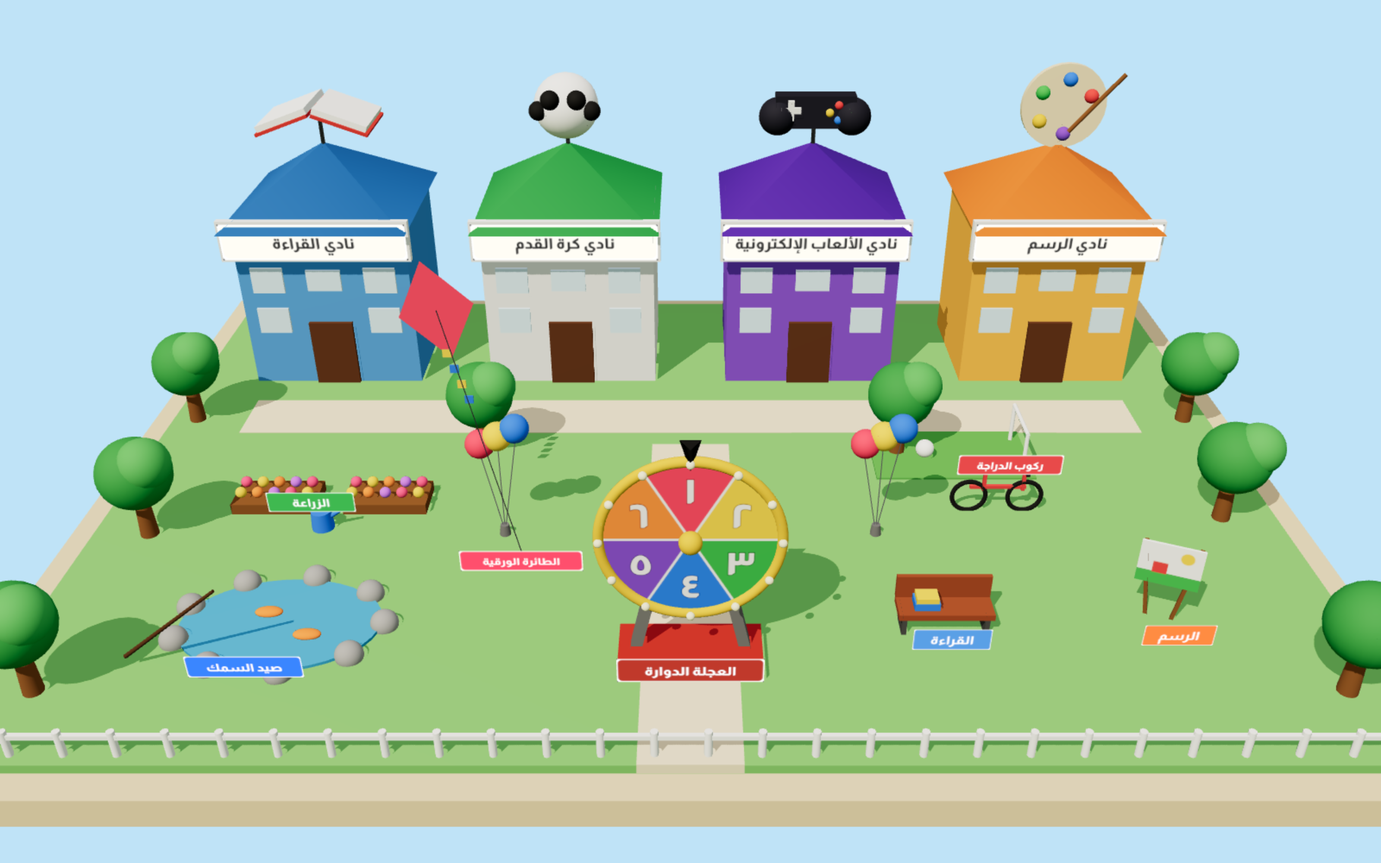
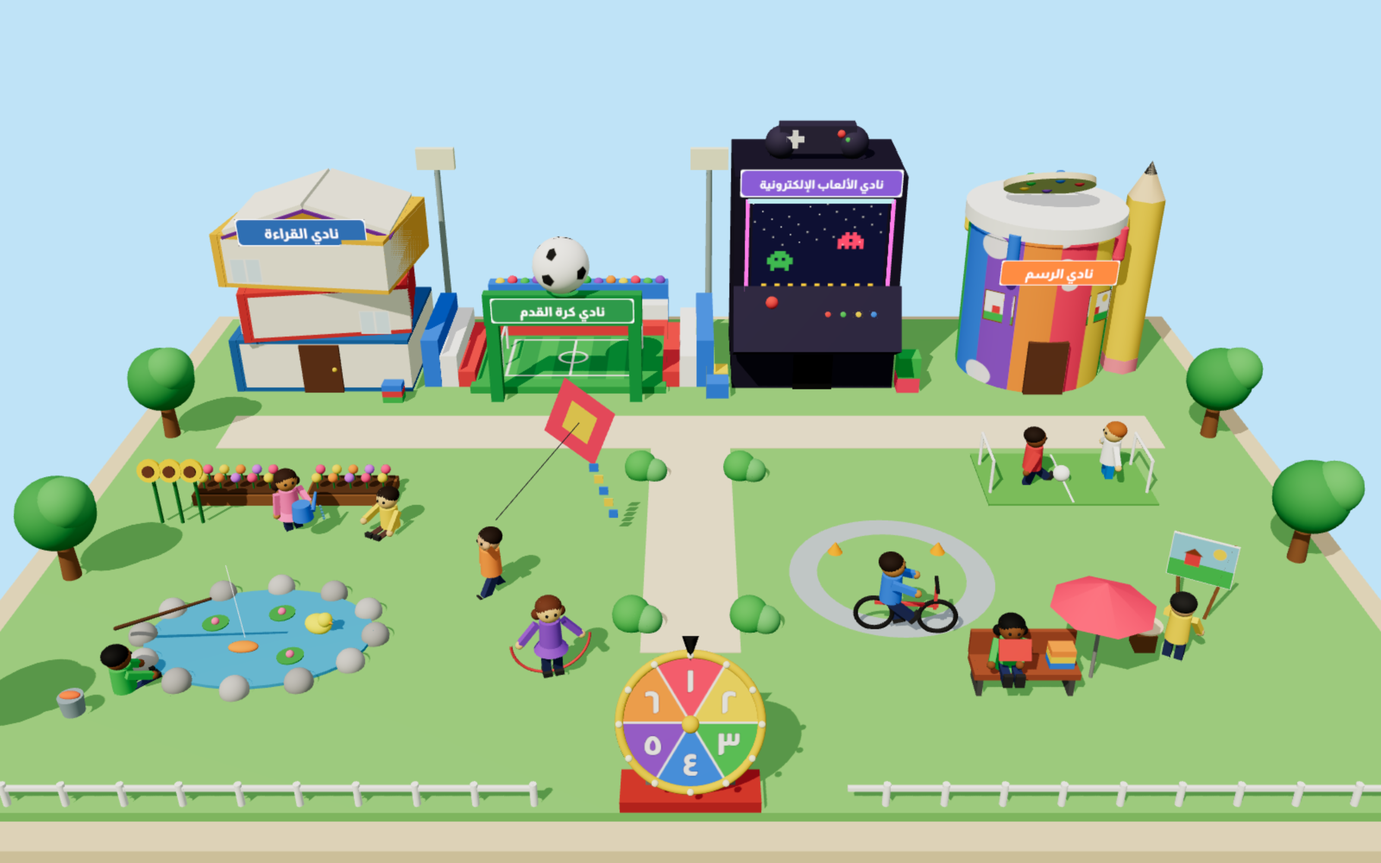
تحديث مجسم أمارس هواياتي: عجلة أمامية منخفضة، أشخاص، ثيمات مبانٍ متنوعة
Claude-Session: https://claude.ai/code/session_01FLRbf3BPUQiKd3AULRWu9m

diff --git a/projects/hobbies-garden-model/index.html b/projects/hobbies-garden-model/index.html
@@ -4,121 +4,188 @@ import * as THREE from './three.module.js';
 const W=1600,H=1000;
 await new FontFace('AR','url(font.ttf)').load().then(f=>document.fonts.add(f));
 const R=new THREE.WebGLRenderer({antialias:true,preserveDrawingBuffer:true});
-R.setSize(W,H);R.shadowMap.enabled=true;R.shadowMap.type=THREE.PCFSoftShadowMap;
-R.toneMapping=THREE.ACESFilmicToneMapping;R.toneMappingExposure=1.05;
+R.setSize(W,H);R.shadowMap.enabled=true;R.toneMapping=THREE.ACESFilmicToneMapping;R.toneMappingExposure=1.05;
 document.body.appendChild(R.domElement);
 const S=new THREE.Scene();S.background=new THREE.Color('#bfe3f7');
-const cam=new THREE.PerspectiveCamera(38,W/H,0.1,300);cam.position.set(0,26,40);cam.lookAt(0,1.5,-1);
+const VIEW=new URLSearchParams(location.search).get('view');
+const cam=new THREE.PerspectiveCamera(36,W/H,0.1,300);
+if(VIEW==='top'){cam.position.set(0,62,6);cam.lookAt(0,0,0.5)}else{cam.position.set(0,25,41);cam.lookAt(0,1.8,-1.5)}
 S.add(new THREE.HemisphereLight('#ffffff','#7a9a5a',1.4));
 const sun=new THREE.DirectionalLight('#fff4e0',2.4);sun.position.set(-14,30,22);sun.castShadow=true;
 sun.shadow.mapSize.set(4096,4096);Object.assign(sun.shadow.camera,{left:-30,right:30,top:30,bottom:-30});sun.shadow.bias=-0.0005;S.add(sun);
 
-const M=c=>new THREE.MeshStandardMaterial({color:c,roughness:.75});
-function box(w,h,d,c,x,y,z,p=S){const m=new THREE.Mesh(new THREE.BoxGeometry(w,h,d),M(c));m.position.set(x,y,z);m.castShadow=m.receiveShadow=true;p.add(m);return m}
-function cyl(rt,rb,h,c,x,y,z,p=S,seg=24){const m=new THREE.Mesh(new THREE.CylinderGeometry(rt,rb,h,seg),M(c));m.position.set(x,y,z);m.castShadow=m.receiveShadow=true;p.add(m);return m}
-function sph(r,c,x,y,z,p=S){const m=new THREE.Mesh(new THREE.SphereGeometry(r,24,16),M(c));m.position.set(x,y,z);m.castShadow=true;p.add(m);return m}
-function label(text,w,h,bg,fg,x,y,z,p=S,fs=0.62){const cv=document.createElement('canvas');cv.width=1024;cv.height=Math.round(1024*h/w);const g=cv.getContext('2d');
- g.fillStyle=bg;g.beginPath();g.roundRect(0,0,cv.width,cv.height,40);g.fill();g.lineWidth=18;g.strokeStyle='#ffffff';g.stroke();
- g.fillStyle=fg;g.direction='rtl';g.textAlign='center';g.textBaseline='middle';g.font=`800 ${Math.round(cv.height*fs)}px AR`;g.fillText(text,cv.width/2,cv.height*0.55);
- const t=new THREE.CanvasTexture(cv);t.colorSpace=THREE.SRGBColorSpace;t.anisotropy=8;
+const M=(c,o={})=>new THREE.MeshStandardMaterial({color:c,roughness:.75,...o});
+const add=(m,x,y,z,p)=>{m.position.set(x,y,z);m.castShadow=m.receiveShadow=true;p.add(m);return m};
+const box=(w,h,d,c,x,y,z,p=S)=>add(new THREE.Mesh(new THREE.BoxGeometry(w,h,d),M(c)),x,y,z,p);
+const cyl=(rt,rb,h,c,x,y,z,p=S,seg=24)=>add(new THREE.Mesh(new THREE.CylinderGeometry(rt,rb,h,seg),M(c)),x,y,z,p);
+const sph=(r,c,x,y,z,p=S)=>add(new THREE.Mesh(new THREE.SphereGeometry(r,24,16),M(c)),x,y,z,p);
+const cone=(r,h,c,x,y,z,p=S,seg=24)=>add(new THREE.Mesh(new THREE.ConeGeometry(r,h,seg),M(c)),x,y,z,p);
+const grp=(x,y,z,p=S,ry=0)=>{const g=new THREE.Group();g.position.set(x,y,z);g.rotation.y=ry;p.add(g);return g};
+const line=(a,b,c='#333')=>S.add(new THREE.Line(new THREE.BufferGeometry().setFromPoints([new THREE.Vector3(...a),new THREE.Vector3(...b)]),new THREE.LineBasicMaterial({color:c})));
+function tex(w,h,draw){const cv=document.createElement('canvas');cv.width=w;cv.height=h;draw(cv.getContext('2d'),w,h);const t=new THREE.CanvasTexture(cv);t.colorSpace=THREE.SRGBColorSpace;t.anisotropy=8;return t}
+function sign(text,w,h,bg,fg,x,y,z,p,fs=.5){const t=tex(1024,Math.round(1024*h/w),(g,cw,ch)=>{g.fillStyle=bg;g.beginPath();g.roundRect(0,0,cw,ch,40);g.fill();g.lineWidth=16;g.strokeStyle='#fff';g.stroke();g.fillStyle=fg;g.direction='rtl';g.textAlign='center';g.textBaseline='middle';g.font=`800 ${Math.round(ch*fs)}px AR`;g.fillText(text,cw/2,ch*.55)});
  const m=new THREE.Mesh(new THREE.PlaneGeometry(w,h),new THREE.MeshBasicMaterial({map:t,toneMapped:false}));m.position.set(x,y,z);p.add(m);return m}
+const picture=(w,h,t,x,y,z,p,ry=0)=>{const m=new THREE.Mesh(new THREE.PlaneGeometry(w,h),new THREE.MeshStandardMaterial({map:t,roughness:.6}));m.position.set(x,y,z);m.rotation.y=ry;p.add(m);return m};
 
-// قاعدة المجسم (لوح)
-box(44,1,32,'#e8d3a8',0,-0.5,0);
-const grass=box(42,0.3,30,'#7cc56a',0,0.15,0);
-// ممرات
-box(3,0.32,17,'#f2e2bf',0,0.17,6.5); box(36,0.32,2.6,'#f2e2bf',0,0.17,-4.2);
-// سور صغير
-for(let x=-20.5;x<=20.5;x+=1.5){cyl(.12,.12,.9,'#ffffff',x,.75,14.6,S,8)} box(41.5,.15,.15,'#ffffff',0,1.0,14.6);
+// ===== شخص (بدون كلمات) =====
+// o: skin, shirt, pants, hair, armL/armR [rx,rz], legL/legR rx, sit, girl
+function person(x,z,ry,o={}){const g=grp(x,0,z,S,ry);const sk=o.skin||'#e0ac7e',sh=o.shirt||'#3a86ff',pa=o.pants||'#2b3a67',ha=o.hair||'#2b1b10';
+ const y0=o.sit?-.75:0;const b=grp(0,y0+(o.lift||0),0,g);
+ for(const [s,rx] of [[-1,o.legL||0],[1,o.legR||0]]){const l=grp(s*.17,.95,0,b);l.rotation.x=o.sit?-Math.PI/2:rx;box(.24,.9,.26,pa,0,-.45,0,l);box(.26,.14,.38,'#333',0,-.9,.06,l)}
+ cyl(.3,.34,.9,sh,0,1.38,0,b,16);if(o.girl)cone(.5,.7,sh,0,1.15,0,b,16);
+ sph(.36,sk,0,2.15,0,b);const hr=sph(.38,ha,0,2.25,-.06,b);hr.scale.set(1,.75,1);if(o.girl){sph(.16,ha,-.33,2.0,-.12,b);sph(.16,ha,.33,2.0,-.12,b)}
+ sph(.05,'#222',-.12,2.18,.32,b);sph(.05,'#222',.12,2.18,.32,b);
+ for(const [s,a] of [[-1,o.armL||[0,0]],[1,o.armR||[0,0]]]){const ar=grp(s*.4,1.72,0,b);ar.rotation.set(a[0],0,s*(a[1]||.12));box(.18,.75,.2,sh,0,-.35,0,ar);sph(.12,sk,0,-.78,0,ar)}
+ return g}
 
-// ===== المباني الأربعة =====
-function building(x,col,roof,name,deco){const g=new THREE.Group();g.position.set(x,0,-10);S.add(g);
- box(7,7,5.5,col,0,3.8,0,g);
- const r=new THREE.Mesh(new THREE.ConeGeometry(5.3,2.6,4),M(roof));r.rotation.y=Math.PI/4;r.position.y=8.6;r.castShadow=true;g.add(r);
- box(1.8,2.8,.2,'#6b4226',0,1.7,2.8,g);
- for(const wx of[-2.3,2.3])for(const wy of[3.2,5.0])box(1.3,1.1,.15,'#d9f1ff',wx,wy,2.8,g);
- box(1.4,.9,.15,'#d9f1ff',0,5.0,2.8,g);
- box(7.6,1.7,.3,'#ffffff',0,6.9,3.2,g);label(name,7.4,1.5,'#fffdf5','#2b2b2b',0,6.9,3.4,g,.42);
- deco(g);}
-building(-15,'#5aa0e6','#2f6fb3','نادي القراءة',g=>{ // كتاب مفتوح على السطح
- const b=new THREE.Group();b.position.set(0,11.2,0);g.add(b);
- const p1=box(2.2,.25,2.8,'#ffffff',-1.15,0,0,b);p1.rotation.z=.35;const p2=box(2.2,.25,2.8,'#ffffff',1.15,0,0,b);p2.rotation.z=-.35;
- const c1=box(2.3,.12,2.95,'#d9443a',-1.15,-.2,0,b);c1.rotation.z=.35;const c2=box(2.3,.12,2.95,'#d9443a',1.15,-.2,0,b);c2.rotation.z=-.35;
- cyl(.08,.08,1.6,'#555',0,10,0,g,8);});
-building(-5,'#f4f4f4','#2e9a4a','نادي كرة القدم',g=>{ // كرة كبيرة + مرمى صغير
- const ball=sph(1.3,'#ffffff',0,11.4,0,g);
- for(let i=0;i<6;i++){const s=sph(.38,'#222',0,0,0,g);const a=i*Math.PI/3;s.position.set(Math.cos(a)*1.05,11.4+Math.sin(a)*1.05*.6,Math.sin(a)*.5+.75)}
- cyl(.08,.08,1.6,'#555',0,10,0,g,8);
- });
-building(5,'#8a5cd6','#5a33a6','نادي الألعاب الإلكترونية',g=>{ // يد تحكم
- const c=new THREE.Group();c.position.set(0,11.3,.3);g.add(c);
- box(3.2,1.3,.7,'#2b2b38',0,0,0,c);sph(.75,'#2b2b38',-1.5,-.25,0,c);sph(.75,'#2b2b38',1.5,-.25,0,c);
- box(.8,.25,.2,'#f5f5f5',-1,.1,.4,c);box(.25,.8,.2,'#f5f5f5',-1,.1,.4,c);
- sph(.17,'#e84a4a',.9,.3,.38,c);sph(.17,'#3fb950',1.25,0,.38,c);sph(.17,'#f2c230',.55,0,.38,c);sph(.17,'#3a86ff',.9,-.3,.38,c);
- cyl(.08,.08,1.6,'#555',0,10,0,g,8);});
-building(15,'#ffb347','#e0742a','نادي الرسم',g=>{ // لوحة ألوان وفرشاة
- const pal=new THREE.Mesh(new THREE.CylinderGeometry(1.7,1.7,.25,32),M('#f3dfb8'));pal.rotation.x=Math.PI/2;pal.position.set(0,11.4,0);pal.castShadow=true;g.add(pal);
- ['#e84a4a','#3a86ff','#3fb950','#f2c230','#8a5cd6'].forEach((c,i)=>{const a=i*1.1+.4;sph(.28,c,Math.cos(a)*1.1,11.4+Math.sin(a)*1.1,.2,g)});
- const br=cyl(.09,.09,3,'#8b5a2b',1.2,11.6,.4,g,8);br.rotation.z=-.7;
- cyl(.08,.08,1.6,'#555',0,10,0,g,8);});
+// ===== القاعدة =====
+box(44,1,33,'#e8d3a8',0,-0.5,.5);box(42,0.3,31,'#7cc56a',0,0.15,.5);
+box(3,0.32,13,'#f2e2bf',0,0.17,3); box(36,0.32,2.6,'#f2e2bf',0,0.17,-4.2);
+for(let x=-20.5;x<=20.5;x+=1.5){if(Math.abs(x)<4)continue;cyl(.1,.1,.7,'#ffffff',x,.65,15.7,S,8)}
+box(16.6,.12,.12,'#fff',-12.3,.85,15.7);box(16.6,.12,.12,'#fff',12.3,.85,15.7);
 
-// ===== الحديقة والهوايات =====
+// ===== المباني بثيمات مختلفة =====
+const BZ=-10.5;
+// 1) نادي القراءة: كومة كتب عملاقة + كتاب مفتوح سقفاً
+{const g=grp(-15,0,BZ);const bks=[['#2f6fb3',7.2,2.3,5.6,-.0],['#d9443a',6.6,2.1,5.2,.15],['#f2b134',7,2.2,5.4,-.12]];let y=.3;
+ bks.forEach(([c,w,h,d,r])=>{const b=grp(0,y+h/2,0,g,r);box(w,h,d,c,0,0,0,b);box(w-.4,h-.35,d+.02,'#fbf6e6',.2,0,0,b);box(.3,h,d+.05,c,-w/2+.15,0,0,b);y+=h});
+ const top=grp(0,y+.6,0,g);[[-1,.32],[1,-.32]].forEach(([s,r])=>{const p=box(3.4,.2,4.6,'#fbf6e6',s*1.65,0,0,top);p.rotation.z=r;const c=box(3.5,.12,4.8,'#7a3fa0',s*1.65,-.17,0,top);c.rotation.z=r});
+ box(1.6,2.1,.2,'#6b4226',0,1.35,2.82,g);sph(.1,'#f2c230',.55,1.35,2.95,g);
+ const wt=tex(256,256,(c)=>{c.fillStyle='#d9f1ff';c.fillRect(0,0,256,256);c.strokeStyle='#fff';c.lineWidth=18;c.strokeRect(0,0,256,256);c.beginPath();c.moveTo(128,0);c.lineTo(128,256);c.stroke()});
+ [[-2.4,3.4],[2.4,3.4],[-2.4,5.6],[2.4,5.6]].forEach(([x,yy])=>picture(1.2,1,wt,x,yy,2.85,g));
+ sign('نادي القراءة',5,1.1,'#2f6fb3','#fff',0,7.2,2.9,g,.5);
+ // كتب صغيرة بجانب الباب
+ ['#3fb950','#e84a4a','#3a86ff'].forEach((c,i)=>box(.8,.25,.6,c,3,.45+i*.26,3.6,g));}
+
+// 2) نادي كرة القدم: ملعب مصغّر بمدرجات وأعمدة إنارة
+{const g=grp(-5,0,BZ);box(8,.3,6,'#3aa64c',0,.45,0,g);
+ const ft=tex(512,384,(c)=>{c.fillStyle='#3aa64c';c.fillRect(0,0,512,384);for(let i=0;i<8;i++){c.fillStyle=i%2?'#34994a':'#3fb052';c.fillRect(i*64,0,64,384)}c.strokeStyle='#fff';c.lineWidth=8;c.strokeRect(30,30,452,324);c.beginPath();c.moveTo(256,30);c.lineTo(256,354);c.stroke();c.beginPath();c.arc(256,192,50,0,7);c.stroke()});
+ const f=new THREE.Mesh(new THREE.PlaneGeometry(6,4.2),new THREE.MeshStandardMaterial({map:ft}));f.rotation.x=-Math.PI/2;f.position.set(0,.61,.2);f.receiveShadow=true;g.add(f);
+ // مدرجات متدرجة خلفية وجانبية
+ for(let i=0;i<3;i++){box(8,.7+i*.7,.7,['#e84a4a','#ffffff','#3a86ff'][i],0,.35+(.7+i*.7)/2,-2.4-i*.7,g);
+  box(.7,.7+i*.7,5,['#e84a4a','#ffffff','#3a86ff'][i],-4.2-i*.7,.35+(.7+i*.7)/2,0,g);box(.7,.7+i*.7,5,['#e84a4a','#ffffff','#3a86ff'][i],4.2+i*.7,.35+(.7+i*.7)/2,0,g)}
+ // جمهور صغير
+ const fans=['#ffd23f','#ff4f6d','#3fb950','#8a5cd6','#ff8c42'];for(let i=0;i<14;i++){sph(.22,fans[i%5],-3.5+i*.55,2.4+.1*(i%2),-3.8,g)}
+ // مرميان
+ for(const s of[-1,1]){const gg=grp(s*2.9,.6,.2,g);cyl(.06,.06,1.2,'#fff',0,.6,-.9,gg,8);cyl(.06,.06,1.2,'#fff',0,.6,.9,gg,8);const t=cyl(.06,.06,1.9,'#fff',0,1.2,0,gg,8);t.rotation.x=Math.PI/2}
+ // أعمدة إنارة
+ for(const [x,z] of[[-5.8,-3.5],[5.8,-3.5]]){cyl(.12,.15,8,'#9aa',x,4,z,g,8);box(1.6,.9,.3,'#f6f6d0',x,8.2,z+.1,g)}
+ // بوابة أمامية وكرة كبيرة
+ box(.5,3.5,.5,'#2e9a4a',-2.8,2,3.5,g);box(.5,3.5,.5,'#2e9a4a',2.8,2,3.5,g);box(6.2,1.3,.5,'#2e9a4a',0,4.3,3.5,g);
+ sign('نادي كرة القدم',5.6,1.05,'#2e9a4a','#fff',0,4.3,3.77,g,.5);
+ const bt=tex(512,256,(c)=>{c.fillStyle='#fff';c.fillRect(0,0,512,256);c.fillStyle='#222';for(let i=0;i<10;i++){const x=(i*101)%512,y=(i*67)%256;c.beginPath();for(let k=0;k<5;k++){const a=k*1.2566;c.lineTo(x+22*Math.cos(a),y+22*Math.sin(a))}c.fill()}});
+ const ball=new THREE.Mesh(new THREE.SphereGeometry(1.1,32,20),new THREE.MeshStandardMaterial({map:bt}));ball.position.set(0,6.1,3.5);ball.castShadow=true;g.add(ball);}
+
+// 3) نادي الألعاب الإلكترونية: جهاز «أركيد» عملاق بشاشة نيون
+{const g=grp(5,0,BZ);box(6.6,9,5,'#24203a',0,4.8,0,g);
+ const sl=box(6.6,2.6,1.6,'#2f2a4a',0,3.5,2.9,g);sl.rotation.x=-.5; // لوحة التحكم المائلة
+ const sc=tex(512,400,(c)=>{c.fillStyle='#0e1033';c.fillRect(0,0,512,400);const px=(x,y,col,map)=>{c.fillStyle=col;map.forEach((r,j)=>[...r].forEach((v,i)=>{if(v==='1')c.fillRect(x+i*14,y+j*14,14,14)}))};
+  px(60,200,'#3fb950',['0011100','0111110','1101011','1111111','0111110','0100010']);
+  px(330,120,'#ff4f6d',['0010100','0111110','1110111','1111111','1010101']);
+  c.fillStyle='#ffd23f';for(let i=0;i<9;i++)c.fillRect(40+i*52,340,18,18);c.fillStyle='#3a86ff';c.fillRect(0,372,512,28);
+  c.fillStyle='#ffffff';for(let i=0;i<30;i++)c.fillRect((i*137)%512,(i*53)%180,4,4)});
+ const scr=new THREE.Mesh(new THREE.PlaneGeometry(5.2,3.9),new THREE.MeshBasicMaterial({map:sc,toneMapped:false}));scr.position.set(0,6.3,2.52);g.add(scr);
+ const neon=(w,h,col,x,y,z)=>{const m=new THREE.Mesh(new THREE.BoxGeometry(w,h,.15),new THREE.MeshStandardMaterial({color:col,emissive:col,emissiveIntensity:1.2}));m.position.set(x,y,z);g.add(m)};
+ neon(5.6,.15,'#00e5ff',0,8.35,2.55);neon(5.6,.15,'#00e5ff',0,4.25,2.55);neon(.15,4.2,'#ff2bd6',-2.8,6.3,2.55);neon(.15,4.2,'#ff2bd6',2.8,6.3,2.55);
+ // أزرار وعصا
+ [['#e84a4a',.8],['#3fb950',1.4],['#f2c230',2],['#3a86ff',2.6]].forEach(([c,x])=>sph(.22,c,x-.4,3.95,3.35,g));cyl(.07,.07,.6,'#222',-1.8,4.1,3.3,g,8);sph(.25,'#e84a4a',-1.8,4.45,3.3,g);
+ box(1.6,2.2,.2,'#111',0,1.15,2.52,g);
+ // مكعبات بكسل حول المبنى ويد تحكم فوقه
+ [['#ffd23f',-3.9,.5,2],['#ff4f6d',3.9,.5,2.5],['#3fb950',3.9,1.4,2.5],['#3a86ff',-3.9,.5,3]].forEach(([c,x,y,z])=>box(.9,.9,.9,c,x,y,z,g));
+ const cn=grp(0,10.1,0,g);box(3,1.1,.8,'#3a3550',0,0,0,cn);sph(.65,'#3a3550',-1.4,-.2,0,cn);sph(.65,'#3a3550',1.4,-.2,0,cn);sph(.16,'#e84a4a',.9,.25,.42,cn);sph(.16,'#3fb950',1.2,0,.42,cn);box(.7,.22,.2,'#eee',-.9,.05,.42,cn);box(.22,.7,.2,'#eee',-.9,.05,.42,cn);
+ sign('نادي الألعاب الإلكترونية',6.2,1.1,'#8a5cd6','#fff',0,9.05,2.56,g,.42);}
+
+// 4) نادي الرسم: برج أسطواني ملوّن بقلم رصاص عملاق وعلبة ألوان
+{const g=grp(15,0,BZ);
+ const st=tex(1024,512,(c)=>{const cs=['#ff4f6d','#ffd23f','#3fb950','#3a86ff','#8a5cd6','#ff8c42'];for(let i=0;i<12;i++){c.fillStyle=cs[i%6];c.fillRect(i*86,0,86,512)}c.fillStyle='rgba(255,255,255,.9)';for(let i=0;i<14;i++){c.beginPath();c.arc((i*173)%1024,(i*97)%512,18+i%3*10,0,7);c.fill()}});
+ const tw=new THREE.Mesh(new THREE.CylinderGeometry(3,3,6.5,40),new THREE.MeshStandardMaterial({map:st}));tw.position.set(-.6,3.55,0);tw.castShadow=tw.receiveShadow=true;g.add(tw);
+ // سقف: علبة ألوان سائلة تقطر
+ cyl(3.2,3.2,.6,'#ffffff',-.6,7.1,0,g,40);['#ff4f6d','#3a86ff','#ffd23f','#3fb950'].forEach((c,i)=>{const a=i*1.57+.6;const d=cyl(.25,.25,1.2+i%2*.6,c,-.6+Math.cos(a)*3.15,6.4-i%2*.3,Math.sin(a)*3.15,g,12);sph(.25,c,d.position.x,d.position.y-.6-i%2*.3,d.position.z,g)});
+ const pal=cyl(1.8,1.8,.25,'#f3dfb8',-.6,8.2,0,g,32);pal.rotation.x=-.5;['#e84a4a','#3a86ff','#3fb950','#f2c230','#8a5cd6'].forEach((c,i)=>{const a=i*1.1+.4;sph(.26,c,-.6+Math.cos(a)*1.1,8.35+Math.sin(a)*.5,Math.sin(a)*.9+.2,g)});
+ // قلم رصاص عملاق
+ cyl(.75,.75,7.5,'#ffcf3f',3.2,4.05,.5,g,6);cone(.75,1.5,'#f3d2a2',3.2,8.55,.5,g,6);cone(.25,.5,'#333',3.2,9.05,.5,g,6);cyl(.76,.76,.6,'#ff8fa3',3.2,.6,.5,g,6);
+ box(1.6,2.3,.3,'#6b4226',-.6,1.45,2.95,g);
+ const ft=tex(256,256,(c)=>{c.fillStyle='#fff';c.fillRect(0,0,256,256);c.fillStyle='#ffd23f';c.beginPath();c.arc(190,60,34,0,7);c.fill();c.fillStyle='#3fb950';c.fillRect(0,180,256,76);c.fillStyle='#e84a4a';c.fillRect(70,120,70,62);c.strokeStyle='#8b5a2b';c.lineWidth=18;c.strokeRect(0,0,256,256)});
+ picture(1.3,1.3,ft,-2.6,3.8,2.25,g,-.6);picture(1.3,1.3,ft,1.4,3.8,2.25,g,.6);
+ sign('نادي الرسم',4.6,1.05,'#ff8c42','#fff',-.6,5.6,3.05,g,.5);}
+
+// ===== الحديقة =====
 function tree(x,z,s=1){cyl(.25*s,.35*s,2*s,'#8b5a2b',x,1*s+.3,z);sph(1.4*s,'#3f9d48',x,2.8*s+.3,z);sph(1*s,'#56b65c',x+.6*s,3.4*s+.3,z+.3*s)}
-[[-20,-4],[20,-4],[-19,4],[19,3],[-8,-1.5],[8,-1.5],[-19.5,12],[19.5,12]].forEach(([x,z])=>tree(x,z,.9));
-function flowers(x,z){box(3,.4,1.6,'#8b5a2b',x,.5,z);const cs=['#ff5c8a','#ffd23f','#ff8c42','#c77dff'];for(let i=0;i<10;i++)sph(.2,cs[i%4],x-1.2+(i%5)*.6,.95,z-.35+Math.floor(i/5)*.7)}
-// 1) الزراعة
-flowers(-15,2); flowers(-11,2);
-const can=cyl(.35,.4,.7,'#3a86ff',-13,.65,3.6);const sp=cyl(.06,.1,.9,'#3a86ff',-12.5,.9,3.6,S,8);sp.rotation.z=-1;
-label('الزراعة',3,.8,'#3fb950','#fff',-13,1.9,4.4,S,.55);
-// 2) صيد السمك: بركة
-const pond=new THREE.Mesh(new THREE.CylinderGeometry(3.2,3.2,.1,40),new THREE.MeshStandardMaterial({color:'#4fb3e8',roughness:.15,metalness:.1}));pond.position.set(-13,.36,9);pond.scale.z=.7;pond.receiveShadow=true;S.add(pond);
-for(let i=0;i<9;i++){const a=i/9*Math.PI*2;sph(.45,'#a7a7a7',-13+Math.cos(a)*3.3,.4,9+Math.sin(a)*2.35)}
-[[-13.5,8.5],[-12,9.6]].forEach(([x,z])=>{const f=sph(.3,'#ff8c42',x,.45,z);f.scale.set(1.5,.5,.8)});
-const rod=cyl(.05,.07,4,'#5b3a1e',-15.5,2,11,S,8);rod.rotation.z=-.9;
-label('صيد السمك',3.4,.8,'#3a86ff','#fff',-13,1.4,12.2,S,.5);
-// 3) الطائرة الورقية
-const kite=new THREE.Mesh(new THREE.CircleGeometry(1.3,4),new THREE.MeshStandardMaterial({color:'#ff4f6d',side:2}));kite.position.set(-8.5,8,2);kite.scale.y=1.4;kite.rotation.z=.2;S.add(kite);
-const kl=new THREE.Line(new THREE.BufferGeometry().setFromPoints([new THREE.Vector3(-8.5,8,2),new THREE.Vector3(-5.5,1,6.5)]),new THREE.LineBasicMaterial({color:'#333'}));S.add(kl);
-for(let i=0;i<4;i++){const b=box(.3,.3,.05,['#ffd23f','#3a86ff'][i%2],-8.3+.2*i,6.4-.6*i,2)}
-label('الطائرة الورقية',4,.8,'#ff4f6d','#fff',-5.5,1.5,7.2,S,.48);
-// 4) ركوب الدراجة
-const bike=new THREE.Group();bike.position.set(11,0,2.5);S.add(bike);
-for(const bx of[-1,1]){const w=new THREE.Mesh(new THREE.TorusGeometry(.6,.08,10,30),M('#222'));w.position.set(bx,.9,0);w.castShadow=true;bike.add(w)}
-const fr=box(2,.12,.12,'#e84a4a',0,1.3,0,bike);box(.12,.9,.12,'#e84a4a',-.5,1.6,0,bike);box(.12,.9,.12,'#e84a4a',.9,1.6,0,bike);box(.6,.15,.3,'#222',-.5,2.05,0,bike);box(.12,.12,.9,'#222',.9,2.05,0,bike);
-label('ركوب الدراجة',3.6,.8,'#e84a4a','#fff',11,2.9,3.6,S,.5);
-// 5) الرسم في الحديقة: حامل لوحة
-const ea=new THREE.Group();ea.position.set(15,0,8.5);ea.rotation.y=-.4;S.add(ea);
-const l1=box(.12,3,.12,'#8b5a2b',-.6,1.6,0,ea);l1.rotation.z=.15;const l2=box(.12,3,.12,'#8b5a2b',.6,1.6,0,ea);l2.rotation.z=-.15;
-const cvs=document.createElement('canvas');cvs.width=256;cvs.height=200;const cg=cvs.getContext('2d');cg.fillStyle='#fff';cg.fillRect(0,0,256,200);cg.fillStyle='#ffd23f';cg.beginPath();cg.arc(190,50,28,0,7);cg.fill();cg.fillStyle='#3fb950';cg.fillRect(0,140,256,60);cg.fillStyle='#e84a4a';cg.fillRect(60,90,60,55);
-const tx=new THREE.CanvasTexture(cvs);tx.colorSpace=THREE.SRGBColorSpace;const pic=new THREE.Mesh(new THREE.BoxGeometry(1.9,1.5,.1),[M('#fff'),M('#fff'),M('#fff'),M('#fff'),new THREE.MeshStandardMaterial({map:tx}),M('#fff')]);pic.position.set(0,2.4,.15);pic.castShadow=true;ea.add(pic);
-label('الرسم',2.2,.8,'#ff8c42','#fff',15,.9,10.2,S,.55);
-// 6) القراءة في الحديقة: مقعد وكتب
-box(3,.2,1,'#a0522d',8,1,9);box(3,.8,.15,'#a0522d',8,1.5,8.5);for(const bx of[-1.3,1.3])box(.15,.9,.9,'#555',8+bx,.6,9);
-box(.8,.25,.6,'#3a86ff',7.4,1.25,9);box(.7,.2,.55,'#ffd23f',7.4,1.45,9);
-label('القراءة',2.4,.8,'#5aa0e6','#fff',8,.9,10.4,S,.55);
-// 7) كرة القدم: ملعب صغير ومرمى
-box(6,.33,3.4,'#5fb04f',10,.2,-1.2);const gl=new THREE.Group();gl.position.set(12.6,0,-1.2);S.add(gl);
-cyl(.08,.08,1.6,'#fff',0,1.1,-1.1,gl,8);cyl(.08,.08,1.6,'#fff',0,1.1,1.1,gl,8);const tb=cyl(.08,.08,2.3,'#fff',0,1.9,0,gl,8);tb.rotation.x=Math.PI/2;
-sph(.35,'#fff',9,.75,-1);
-// بالونات زينة
-[[-6.5,4],[6.5,4]].forEach(([x,z],k)=>{['#ff4f6d','#ffd23f','#3a86ff'].forEach((c,i)=>{sph(.5,c,x+(i-1)*.6,4+i*.3,z);const s=new THREE.Line(new THREE.BufferGeometry().setFromPoints([new THREE.Vector3(x+(i-1)*.6,3.5+i*.3,z),new THREE.Vector3(x,.4,z)]),new THREE.LineBasicMaterial({color:'#555'}));S.add(s)});cyl(.15,.2,.4,'#777',x,.5,z)});
+[[-20,-4],[20,-4],[-20,5.5],[20,4.5],[-20,13],[20,13]].forEach(([x,z])=>tree(x,z,.85));
+const bush=(x,z)=>{sph(.6,'#4caf50',x,.6,z);sph(.45,'#66bb6a',x+.5,.55,z+.2)};[[-1.8,-1],[1.8,-1],[-1.8,8],[1.8,8]].forEach(([x,z])=>bush(x,z));
 
-// ===== العجلة الدوارة (المقدمة في المنتصف) =====
-const wheel=new THREE.Group();wheel.position.set(0,0,10.5);S.add(wheel);
-box(4.4,.4,2.2,'#c0392b',0,.5,0,wheel);
-const lg1=box(.35,4.6,.35,'#7a7a7a',-1.2,2.7,-.2,wheel);lg1.rotation.z=-.22;const lg2=box(.35,4.6,.35,'#7a7a7a',1.2,2.7,-.2,wheel);lg2.rotation.z=.22;
-const wc=document.createElement('canvas');wc.width=wc.height=1024;const wg=wc.getContext('2d');
-const cols=['#ff4f6d','#ffd23f','#3fb950','#3a86ff','#8a5cd6','#ff8c42'],nums=['١','٢','٣','٤','٥','٦'];
-for(let i=0;i<6;i++){const a0=-Math.PI/2+i*Math.PI/3-Math.PI/6;wg.fillStyle=cols[i];wg.beginPath();wg.moveTo(512,512);wg.arc(512,512,512,a0,a0+Math.PI/3);wg.closePath();wg.fill();wg.strokeStyle='#fff';wg.lineWidth=14;wg.stroke();
- const am=a0+Math.PI/6;wg.save();wg.translate(512+Math.cos(am)*330,512+Math.sin(am)*330);wg.fillStyle='#fff';wg.strokeStyle='rgba(0,0,0,.35)';wg.lineWidth=10;wg.font='800 230px AR';wg.textAlign='center';wg.textBaseline='middle';wg.strokeText(nums[i],0,10);wg.fillText(nums[i],0,10);wg.restore()}
-const wt=new THREE.CanvasTexture(wc);wt.colorSpace=THREE.SRGBColorSpace;wt.anisotropy=8;
-const disc=new THREE.Mesh(new THREE.CircleGeometry(2.6,64),new THREE.MeshStandardMaterial({map:wt,roughness:.5}));disc.position.set(0,4.9,.25);disc.castShadow=true;wheel.add(disc);
-const back=cyl(2.6,2.6,.3,'#ffffff',0,4.9,0,wheel,64);back.rotation.x=Math.PI/2;
-const rim=new THREE.Mesh(new THREE.TorusGeometry(2.65,.16,12,64),M('#f2c230'));rim.position.set(0,4.9,.25);wheel.add(rim);
-for(let i=0;i<12;i++){const a=i*Math.PI/6;sph(.13,'#fff8d0',Math.cos(a)*2.65,4.9+Math.sin(a)*2.65,.42,wheel)}
-sph(.35,'#f2c230',0,4.9,.4,wheel);
-const ptr=new THREE.Mesh(new THREE.ConeGeometry(.35,.9,3),M('#222'));ptr.rotation.z=Math.PI;ptr.position.set(0,7.75,.35);ptr.castShadow=true;wheel.add(ptr);
-label('العجلة الدوارة',4.4,.9,'#c0392b','#fff',0,.75,1.12,wheel,.5);
+// 1) الزراعة: أحواض زهور، دوّار شمس، طفلة تسقي وطفل يزرع
+{const fl=(x,z)=>{box(3,.4,1.4,'#8b5a2b',x,.5,z);box(2.8,.1,1.2,'#5a3a1a',x,.72,z);const cs=['#ff5c8a','#ffd23f','#ff8c42','#c77dff'];for(let i=0;i<10;i++){const fx=x-1.15+(i%5)*.58,fz=z-.3+Math.floor(i/5)*.6;cyl(.03,.03,.4,'#2e7d32',fx,.95,fz,S,6);sph(.17,cs[i%4],fx,1.2,fz)}};
+ fl(-16,0.5);fl(-12,0.5);
+ for(let i=0;i<3;i++){cyl(.06,.06,2.2,'#2e7d32',-18.2+i*.7,1.3,2.3,S,6);const h=cyl(.4,.4,.12,'#ffcc00',-18.2+i*.7,2.45,2.45,S,16);h.rotation.x=1.3;cyl(.2,.2,.14,'#6b3e1e',-18.2+i*.7,2.45,2.52,S,12).rotation.x=1.3}
+ person(-13.6,2.6,.6,{girl:1,shirt:'#ff7eb6',hair:'#3b2314',skin:'#c68642',armR:[-1.2,.1]});
+ cyl(.3,.35,.55,'#3a86ff',-13.0,1.35,3.25);const sp=cyl(.05,.09,.7,'#3a86ff',-12.65,1.55,2.95,S,8);sp.rotation.x=-1;
+ for(let i=0;i<5;i++)sph(.05,'#7fd3ff',-12.55,1.2-i*.15,2.7-i*.05);
+ person(-10.3,2.5,-.5,{sit:1,shirt:'#ffd23f',pants:'#5d4037',skin:'#f1c27d',armL:[-1.3,.1],armR:[-.9,0]});
+ const shv=cyl(.04,.04,1,'#8b5a2b',-10.9,.6,1.8,S,6);shv.rotation.x=.9;box(.25,.05,.3,'#9e9e9e',-11,.25,1.45);}
+
+// 2) صيد السمك: بركة بزنابق، بطة، طفل جالس بصنارة، دلو سمك
+{const pond=new THREE.Mesh(new THREE.CylinderGeometry(3.4,3.4,.1,48),M('#4fb3e8',{roughness:.15,metalness:.1}));pond.position.set(-13,.36,8.8);pond.scale.z=.7;pond.receiveShadow=true;S.add(pond);
+ for(let i=0;i<12;i++){const a=i/12*Math.PI*2;sph(.42,['#a7a7a7','#bdbdbd'][i%2],-13+Math.cos(a)*3.5,.4,8.8+Math.sin(a)*2.5)}
+ [[-14.5,8.2],[-11.8,9.8],[-12.6,7.7]].forEach(([x,z])=>{const l=cyl(.4,.4,.04,'#43a047',x,.43,z,S,16);sph(.12,'#ff80ab',x,.5,z)});
+ const f=sph(.3,'#ff8c42',-13.3,.45,9.4);f.scale.set(1.5,.5,.8);
+ const dk=grp(-11.3,.4,8.4,S,-.6);sph(.35,'#ffeb3b',0,.15,0,dk).scale.set(1.3,.8,1);sph(.22,'#ffeb3b',.35,.45,0,dk);cone(.08,.2,'#ff9800',.6,.43,0,dk,8).rotation.z=-1.57;
+ person(-16.2,11.1,2.4,{sit:1,shirt:'#3fb950',skin:'#8d5524',hair:'#111',armL:[-1.1,.1],armR:[-1.1,-.1]});
+ const rod=cyl(.04,.06,4.2,'#5b3a1e',-15.2,2.1,10.0,S,8);rod.rotation.set(.0,0,-1.0);rod.rotation.x=.55;
+ line([-13.5,3.1,9.0],[-13.4,.4,8.9],'#eee');
+ cyl(.35,.3,.55,'#90a4ae',-17.2,.65,12.2);const ff=sph(.18,'#ff7043',-17.2,.95,12.2);ff.scale.set(1.6,.6,.8);}
+
+// 3) الطائرة الورقية: طفل يركض ويده للأعلى
+{const k=new THREE.Mesh(new THREE.CircleGeometry(1.2,4),M('#ff4f6d',{side:2}));k.position.set(-3.6,4.6,3.0);k.scale.y=1.4;k.rotation.z=.25;S.add(k);
+ const k2=new THREE.Mesh(new THREE.CircleGeometry(.6,4),M('#ffd23f',{side:2}));k2.position.set(-3.6,4.6,3.02);k2.scale.y=1.4;k2.rotation.z=.25;S.add(k2);
+ for(let i=0;i<5;i++)box(.3,.3,.05,['#3a86ff','#ffd23f'][i%2],-3.2+.15*i,2.9-.45*i,3.0);
+ person(-6.3,6.2,-.9,{shirt:'#ff8c42',skin:'#e0ac7e',armR:[-2.6,.2],legL:.5,legR:-.5});
+ line([-3.6,4.6,3.0],[-6.0,3.0,6.4]);}
+
+// 4) القفز بالحبل: طفلة تقفز
+{person(-4,10.5,.3,{girl:1,shirt:'#8a5cd6',skin:'#f1c27d',hair:'#6d3b1b',lift:.45,armL:[0,.7],armR:[0,.7]});
+ const rope=new THREE.Mesh(new THREE.TorusGeometry(1.15,.04,8,40,Math.PI),M('#e84a4a'));rope.position.set(-4,1.6,10.5);rope.rotation.set(0,.3,Math.PI);S.add(rope);}
+
+// 5) ركوب الدراجة: مسار دائري وطفل على دراجة
+{const tr=new THREE.Mesh(new THREE.RingGeometry(2.4,3.3,48),M('#b0bec5'));tr.rotation.x=-Math.PI/2;tr.position.set(6.5,.33,5.5);tr.receiveShadow=true;S.add(tr);
+ const bk=grp(6.5,0,8.4,S,-.1);for(const bx of[-.95,.95]){const w=new THREE.Mesh(new THREE.TorusGeometry(.55,.07,10,30),M('#222'));w.position.set(bx,.9,0);w.castShadow=true;bk.add(w)}
+ box(1.9,.1,.1,'#e84a4a',0,1.3,0,bk);box(.1,.8,.1,'#e84a4a',-.45,1.55,0,bk);box(.1,.85,.1,'#e84a4a',.85,1.6,0,bk);box(.1,.1,.8,'#222',.85,2.05,0,bk);
+ const rider=person(6.0,8.4,Math.PI/2-.1,{shirt:'#3a86ff',skin:'#c68642',lift:.55,legL:-.9,legR:-.3,armL:[-1.3,0],armR:[-1.3,0]});
+ cone(.25,.4,'#ff9800',4.8,.55,4.2,S,12);cone(.25,.4,'#ff9800',8.2,.55,4.2,S,12);}
+
+// 6) كرة القدم: ملعب صغير وطفلان
+{box(6,.33,3.6,'#5fb04f',13.5,.2,-0.6);for(const s of[-1,1]){const gl=grp(13.5+s*2.8,0,-.6);cyl(.06,.06,1.3,'#fff',0,1,-1,gl,8);cyl(.06,.06,1.3,'#fff',0,1,1,gl,8);const t=cyl(.06,.06,2.1,'#fff',0,1.65,0,gl,8);t.rotation.x=Math.PI/2}
+ box(.08,.02,3.4,'#fff',13.5,.38,-.6);
+ person(12.3,-.4,Math.PI/2,{shirt:'#e84a4a',skin:'#8d5524',legR:-.9,legL:.3,armL:[.5,.3],armR:[-.5,.3]});
+ person(15.2,-.8,-Math.PI/2,{shirt:'#ffffff',pants:'#1e88e5',skin:'#f1c27d',hair:'#b5651d',armL:[0,.9],armR:[0,.9]});
+ sph(.3,'#fff',13.4,.68,-.4);}
+
+// 7) الرسم: طفل أمام حامل لوحة
+{const ea=grp(15.5,0,7.6,S,-.5);const l1=box(.1,3,.1,'#8b5a2b',-.6,1.6,0,ea);l1.rotation.z=.15;const l2=box(.1,3,.1,'#8b5a2b',.6,1.6,0,ea);l2.rotation.z=-.15;
+ const pt=tex(256,200,(c)=>{c.fillStyle='#fff';c.fillRect(0,0,256,200);c.fillStyle='#87ceeb';c.fillRect(0,0,256,120);c.fillStyle='#ffd23f';c.beginPath();c.arc(190,50,26,0,7);c.fill();c.fillStyle='#3fb950';c.fillRect(0,120,256,80);c.fillStyle='#e84a4a';c.fillRect(60,80,60,55);c.fillStyle='#8b4513';c.beginPath();c.moveTo(50,82);c.lineTo(90,50);c.lineTo(130,82);c.fill()});
+ const pic=new THREE.Mesh(new THREE.BoxGeometry(1.9,1.5,.08),M('#fff'));pic.position.set(0,2.4,.12);ea.add(pic);picture(1.85,1.45,pt,0,2.4,.17,ea);
+ person(14.3,9.6,2.6,{shirt:'#ffd23f',skin:'#e0ac7e',hair:'#222',armR:[-1.4,-.2],armL:[-.6,.2]});
+ cyl(.5,.5,.06,'#f3dfb8',13.5,1.1,9.2,S,20);box(.6,.6,.6,'#8b5a2b',13.5,.6,9.2);}
+
+// 8) القراءة: مقعد وطفلة تقرأ وكومة كتب
+{box(3,.2,1,'#a0522d',9.5,1,11);box(3,.8,.15,'#a0522d',9.5,1.5,10.5);for(const bx of[-1.3,1.3])box(.15,.9,.9,'#555',9.5+bx,.6,11);
+ person(9.0,11.0,0,{sit:1,girl:1,shirt:'#3fb950',skin:'#8d5524',hair:'#111',lift:.95,armL:[-1.1,.3],armR:[-1.1,-.3]});
+ const bkk=grp(9.0,2.05,11.6,S);box(.9,.6,.08,'#e84a4a',0,0,0,bkk).rotation.x=-.5;
+ ['#3a86ff','#ffd23f','#ff8c42'].forEach((c,i)=>box(.7,.2,.5,c,10.5,1.2+i*.21,11));
+ const um=grp(11.6,0,10.6);cyl(.06,.06,3,'#888',0,1.5,0,um,8);cone(1.5,.8,'#ff4f6d',0,3.2,0,um,8);}
+
+// ===== العجلة الدوارة: في المقدمة تماماً ومنخفضة =====
+{const w=grp(0,0,15.4);box(3.6,.35,1.2,'#c0392b',0,.48,0,w);
+ const lg1=box(.25,2.0,.25,'#7a7a7a',-.75,1.55,-.15,w);lg1.rotation.z=-.3;const lg2=box(.25,2.0,.25,'#7a7a7a',.75,1.55,-.15,w);lg2.rotation.z=.3;
+ const cols=['#ff4f6d','#ffd23f','#3fb950','#3a86ff','#8a5cd6','#ff8c42'],nums=['١','٢','٣','٤','٥','٦'];
+ const wt=tex(1024,1024,(g)=>{for(let i=0;i<6;i++){const a0=-Math.PI/2+i*Math.PI/3-Math.PI/6;g.fillStyle=cols[i];g.beginPath();g.moveTo(512,512);g.arc(512,512,512,a0,a0+Math.PI/3);g.closePath();g.fill();g.strokeStyle='#fff';g.lineWidth=14;g.stroke();
+  const am=a0+Math.PI/6;g.fillStyle='#fff';g.strokeStyle='rgba(0,0,0,.35)';g.lineWidth=10;g.font='800 240px AR';g.textAlign='center';g.textBaseline='middle';const x=512+Math.cos(am)*320,y=512+Math.sin(am)*320+12;g.strokeText(nums[i],x,y);g.fillText(nums[i],x,y)}});
+ const hub=grp(0,2.75,0,w);hub.rotation.x=-.35;
+ const back=cyl(1.75,1.75,.22,'#ffffff',0,0,-.12,hub,64);back.rotation.x=Math.PI/2;
+ const disc=new THREE.Mesh(new THREE.CircleGeometry(1.75,64),M('#fff',{map:wt,roughness:.5}));disc.position.z=.0;disc.castShadow=true;hub.add(disc);
+ const rim=new THREE.Mesh(new THREE.TorusGeometry(1.78,.11,12,64),M('#f2c230'));hub.add(rim);
+ for(let i=0;i<12;i++){const a=i*Math.PI/6;sph(.09,'#fff8d0',Math.cos(a)*1.78,Math.sin(a)*1.78,.12,hub)}
+ sph(.22,'#f2c230',0,0,.12,hub);const p=cone(.24,.6,'#222',0,1.95,.15,hub,3);p.rotation.z=Math.PI;}
 
 R.render(S,cam);window.__done=true;
 </script></body></html>
